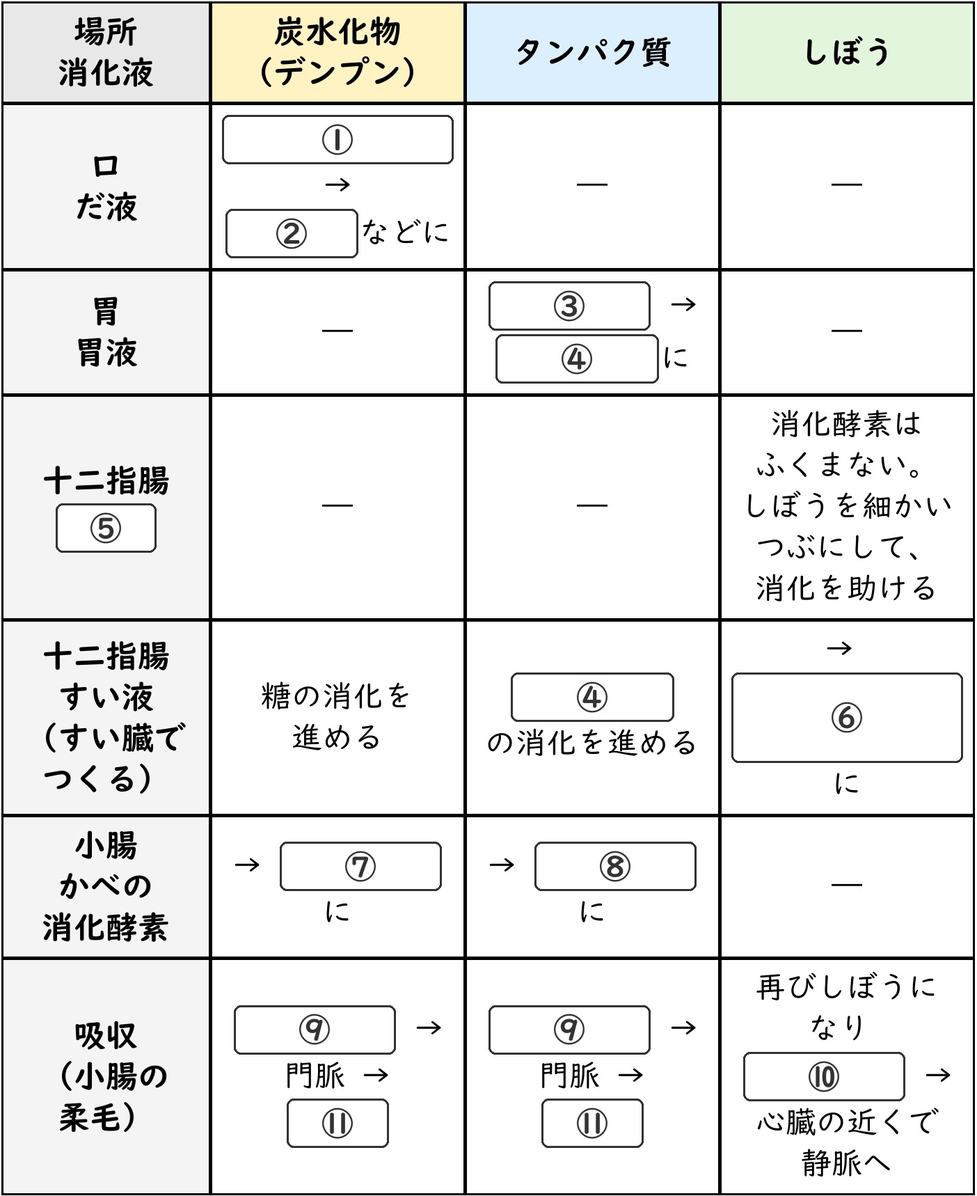
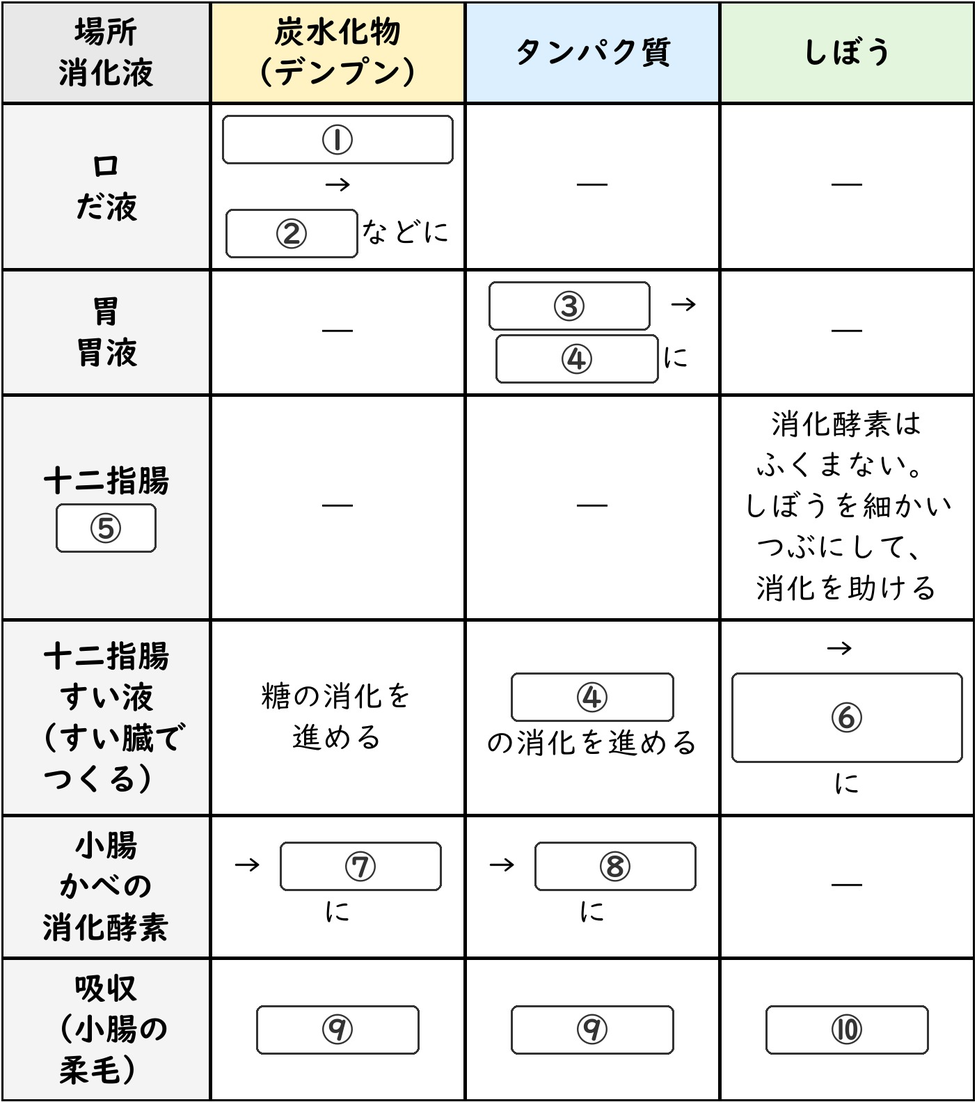
理科 第4回の r4m90 を消し、消化の表を差し替えた／二人対戦の再開で消えた問を飛ばすようにした
■ データ（理科担当の納品 0c6657e3…・89問）
  r4m90（消化の表⑪・肝臓）を data.js から削除。ほかは1文字も変えていない
  （公開ずみとの差: 追加0・変更0・削除1、行の差分も r4m90 の1ブロックだけ）。
  r4_04.jpg を差し替え、IMG_SIZES を実物どおり 1404x1583 に直した。
  吸収の行はテキストどおり ⑨・⑨・⑩（毛細血管・毛細血管・リンパ管）になった。

■ 消えた問の記録が端末に残る件
  stats[r4m90] は消さない（id は履歴の鍵）。残っていても、ホームの数字・一覧・
  CSV 書き出し・前回まちがえた問題・一人の途中再開は壊れないことを
  tools/mikaku/orphan_probe.mjs で確かめた。

■ 見つけて直したこと（index.html）
  二人対戦の途中再開は、保存した questionIds をそのまま使っていたため、
  消えた問が入っていると getQById() が null を返し、その問で画面が落ちた。
  一人の途中再開と同じく、再開のときに消えた id を取りのぞき、添字を数え直す。
  「採点ずみの問題には戻らない」の判定は、取りのぞく前の添字でする。
  直す前に test_battle_resume のシナリオ7で落ちることを確かめ、直したあと28件すべて通過。

diff --git a/index.html b/index.html
@@ -2455,7 +2455,7 @@ function startConnectTimeout(side){
 // images/内の各画像の実サイズ。<img>にwidth/height属性を設定することで、
 // 読み込み前でも正しい縦横比の分だけ表示スペースを確保でき、
 // 画像読み込み完了時のレイアウトのガタつき（＝それに伴うタップのすれ違い）を防ぐ。
-const IMG_SIZES = {"img_01.jpg":[581,620],"img_02.jpg":[627,579],"img_03.jpg":[714,417],"img_04.jpg":[514,483],"img_05.jpg":[644,532],"img_06.jpg":[463,429],"img_07.jpg":[1156,446],"img_08.jpg":[573,586],"img_09.jpg":[506,198],"img_10.jpg":[497,146],"img_11.jpg":[503,499],"img_12.jpg":[518,578],"img_13.jpg":[746,621],"img_14.jpg":[713,567],"img_15.jpg":[658,628],"img_16.png":[642,589],"img_17.png":[535,597],"img_18.png":[510,295],"img_19.png":[1399,307],"img_20.png":[448,714],"img_21.png":[648,595],"img_22.png":[244,234],"img_23.jpg":[346,355],"img_24.jpg":[209,263],"img_25.jpg":[228,244],"kai1_01.jpg":[374,356],"kai1_02.jpg":[348,339],"kai1_03.jpg":[492,339],"kai1_04.jpg":[352,340],"kai1_05.jpg":[357,340],"kai1_06.jpg":[261,340],"kai1_07.jpg":[461,340],"kai1_08.jpg":[444,340],"kai1_09.jpg":[357,340],"kai1_10.jpg":[601,340],"kai1_11.jpg":[635,340],"kai1_12.jpg":[2019,1084],"kai1_13.jpg":[516,490],"kai1_14.jpg":[560,254],"kai1_15.jpg":[595,324],"kai1_17.jpg":[2028,783],"kai1_18.jpg":[2019,1084],"kai1_20.jpg":[2019,1084],"kai1_21.jpg":[2019,1084],"kai1_22.jpg":[595,569],"kai1_23.jpg":[595,569],"kai1_24.jpg":[2019,1084],"kai1_25.jpg":[595,569],"kai1_26.jpg":[595,569],"kai1_27.jpg":[700,508],"kai1_28.jpg":[951,720],"kai1_29.jpg":[2240,1180],"kai1_30.jpg":[1181,1244],"kai2_01.jpg":[697,350],"kai2_02.jpg":[769,524],"kai2_03.jpg":[529,297],"kai2_04.jpg":[529,313],"kai2_05.jpg":[1216,2126],"kai3_01.jpg":[530,460],"kai3_02.jpg":[680,460],"kai3_03.jpg":[700,460],"kai3_04.jpg":[675,330],"kai3_05.jpg":[2408,1775],"kai3_06.jpg":[1988,1222],"kai3_07.jpg":[1189,2001],"kai4_01.jpg":[1189,1839],"kai5_01.jpg":[1189,1027],"kai5_02.jpg":[743,534],"kaki_r1_01.jpg":[761,180],"kaki_r1_02.jpg":[761,206],"kaki_r1_03.jpg":[796,180],"kaki_r1_04.jpg":[761,179],"kaki_r1_05.jpg":[796,206],"kaki_r1_06.jpg":[830,214],"kaki_r1_07.jpg":[890,624],"kaki_r1_08.jpg":[430,380],"kaki_r1_map01.jpg":[1170,1210],"kaki_r1_map02.jpg":[1170,1210],"kaki_r1_map03.jpg":[1170,1210],"kaki_r1_map04.jpg":[1170,1210],"kaki_r1_map05.jpg":[1170,1210],"kaki_r1_map06.jpg":[1170,1210],"kaki_r1_map07.jpg":[1170,1210],"kaki_r1_map08.jpg":[1170,1210],"kaki_r1_map09.jpg":[1170,1210],"kaki_r1_map10.jpg":[1170,1210],"kaki_r1_map11.jpg":[1170,1210],"kaki_r1_map12.jpg":[1170,1210],"kaki_r1_map13.jpg":[1170,1210],"kaki_r1_map14.jpg":[1170,1210],"kaki_r1_map15.jpg":[1170,1210],"kaki_r2_graph01.jpg":[1215,1340],"kaki_r2_graph02.jpg":[1295,850],"kaki_r2_graph03.jpg":[1265,680],"kaki_r2_graph04.jpg":[1225,320],"kaki_r2_graph06.jpg":[1045,560],"kaki_r2_graph07.jpg":[700,870],"kaki_r2_map01.jpg":[1140,1090],"kaki_r2_map05.jpg":[1035,900],"kaki_r2_map07.jpg":[2315,1650],"kaki_r2_map08.jpg":[2315,1650],"kaki_r2_map09.jpg":[2315,1650],"kaki_r2_map10.jpg":[2315,1650],"kaki_r2_map11.jpg":[2315,1650],"kaki_r2_map12.jpg":[2315,1650],"kaki_r2_map13.jpg":[2315,1650],"kaki_r2_map14.jpg":[2315,1650],"kaki_r2_map15.jpg":[2315,1650],"kaki_r2_map16.jpg":[2315,1650],"kaki_r2_map17.jpg":[2315,1650],"kaki_r2_map18.jpg":[2315,1650],"kaki_r2_map19.jpg":[2315,1650],"kaki_r3_graph01.jpg":[1015,580],"kaki_r3_house01.jpg":[505,355],"kaki_r3_map01.jpg":[2415,3414],"kaki_r3_map02.jpg":[2415,3414],"kaki_r3_map03.jpg":[2415,3414],"kaki_r3_map04.jpg":[2415,3414],"kaki_r3_map05.jpg":[2415,3414],"kaki_r3_map06.jpg":[2415,3414],"kaki_r3_map07.jpg":[2415,3414],"kaki_r3_map08.jpg":[2415,3414],"kaki_r3_map09.jpg":[2415,3414],"kaki_r3_map10.jpg":[2415,3414],"kaki_r3_map11.jpg":[2415,3414],"kaki_r3_map12.jpg":[2415,3414],"kaki_r3_map13.jpg":[2415,3414],"kaki_r3_map14.jpg":[2415,3414],"kaki_r3_map15.jpg":[2415,3414],"kaki_r3_map16.jpg":[2415,3414],"kaki_r3_map17.jpg":[2415,3414],"kaki_r3_map18.jpg":[2415,3414],"kaki_r3_map19.jpg":[2415,3414],"kaki_r3_map20.jpg":[2415,3414],"kaki_r3_map21.jpg":[2415,3414],"kaki_r3_map22.jpg":[2415,3414],"kaki_r3_map23.jpg":[2415,3417],"kaki_r3_map24.jpg":[2415,3417],"kaki_r3_map25.jpg":[2415,3417],"kaki_r3_map26.jpg":[2415,3417],"kaki_r3_map27.jpg":[2415,3417],"kaki_r3_map28.jpg":[2415,3417],"kaki_r3_map29.jpg":[2415,3417],"kaki_r3_map30.jpg":[2415,3417],"kaki_r3_map31.jpg":[2415,3417],"kaki_r3_map32.jpg":[2415,3417],"kaki_r3_map33.jpg":[2415,3417],"kaki_r3_map34.jpg":[2415,3417],"kaki_r3_map35.jpg":[2415,3417],"kaki_r3_map36.jpg":[2415,3417],"kaki_r3_map37.jpg":[1265,910],"kaki_r3_shapes.jpg":[2315,480],"kaki_r4_graph01.jpg":[910,300],"kaki_r4_graph02.jpg":[760,200],"kaki_r4_map01.jpg":[1610,980],"kaki_r4_map02.jpg":[1610,1380],"kaki_r4_map03.jpg":[540,570],"kaki_r4_map04.jpg":[1480,1310],"kaki_r4_map05.jpg":[1480,1310],"kaki_r4_map06.jpg":[1480,1310],"kaki_r4_map07.jpg":[1480,1310],"kaki_r4_map08.jpg":[1480,1310],"kaki_r4_map09.jpg":[1480,1310],"kaki_r4_map10.jpg":[1480,1310],"kaki_r4_map11.jpg":[1480,1310],"kaki_r4_map12.jpg":[1480,1310],"kaki_r4_map13.jpg":[1480,1310],"kaki_r4_map14.jpg":[1480,1310],"kaki_r4_map15.jpg":[1480,1310],"kaki_r4_map16.jpg":[1480,1310],"kaki_r4_map17.jpg":[1480,1310],"kaki_r4_map18.jpg":[1480,1310],"kaki_r4_map19.jpg":[1480,1310],"kaki_r4_map20.jpg":[1480,1310],"kaki_r4_map21.jpg":[1480,1310],"kaki_r4_map22.jpg":[1480,1310],"kaki_r4_map23.jpg":[1480,1310],"kaki_r4_map24.jpg":[1480,1310],"kaki_r4_map25.jpg":[1630,1440],"kaki_r4_map26.jpg":[1630,1440],"kaki_r4_map27.jpg":[1630,1440],"kaki_r4_map28.jpg":[1630,1440],"kaki_r4_map29.jpg":[1630,1440],"kaki_r4_map30.jpg":[1630,1440],"kaki_r4_map31.jpg":[1630,1440],"kaki_r4_map32.jpg":[1630,1440],"kaki_r4_map33.jpg":[1630,1440],"kaki_r4_map34.jpg":[1630,1440],"kaki_r4_map35.jpg":[1630,1440],"kaki_r4_map36.jpg":[1630,1440],"kaki_r4_map37.jpg":[1630,1440],"kaki_r4_map38.jpg":[1630,1440],"kaki_r4_map39.jpg":[1630,1440],"kaki_r4_map40.jpg":[1630,1440],"kaki_r4_map41.jpg":[1630,1440],"kaki_r4_shapes01.jpg":[1470,520],"kaki_r4_shapes02.jpg":[1970,870],"kaki_r5_graph02.jpg":[610,665],"kaki_r5_graph05.jpg":[2105,343],"kaki_r5_map01.jpg":[1540,1550],"kaki_r5_map02.jpg":[1540,1550],"kaki_r5_map03.jpg":[1540,1550],"kaki_r5_map04.jpg":[1540,1550],"kaki_r5_map05.jpg":[1540,1550],"kaki_r5_map06.jpg":[1540,1550],"kaki_r5_map07.jpg":[1540,1550],"kaki_r5_map08.jpg":[1540,1550],"kaki_r5_map09.jpg":[1540,1550],"kaki_r5_map10.jpg":[1540,1550],"kaki_r5_map11.jpg":[1540,1550],"kaki_r5_map12.jpg":[1540,1550],"kaki_r5_map13.jpg":[1540,1550],"kaki_r5_map14.jpg":[1540,1550],"kaki_r5_map15.jpg":[1540,1550],"kaki_r5_map16.jpg":[1540,1550],"kaki_r5_map17.jpg":[1540,1550],"kaki_r5_map18.jpg":[1540,1550],"kaki_r5_map19.jpg":[1700,1740],"kaki_r5_map20.jpg":[1700,1740],"kaki_r5_map21.jpg":[1700,1740],"kaki_r5_map22.jpg":[1700,1740],"kaki_r5_map23.jpg":[1700,1740],"kaki_r5_map24.jpg":[1700,1740],"kaki_r5_map25.jpg":[1700,1740],"kaki_r5_map26.jpg":[1700,1740],"kaki_r5_map27.jpg":[1700,1740],"kaki_r5_map28.jpg":[1700,1740],"kaki_r5_map29.jpg":[1700,1740],"kaki_r5_map30.jpg":[1700,1740],"kaki_r5_map31.jpg":[1700,1740],"kaki_r5_map32.jpg":[540,600],"kaki_r5_shapes02.jpg":[800,635],"kaki_r5_shapes03.jpg":[460,480],"kaki_r5_table01.jpg":[1370,390],"kaki_r5_table02.jpg":[1170,580],"kaki_r6_graph01.jpg":[850,1005],"kaki_r6_map01.jpg":[1500,1320],"kaki_r6_map02.jpg":[1500,1320],"kaki_r6_map03.jpg":[1500,1320],"kaki_r6_map04.jpg":[1500,1320],"kaki_r6_map05.jpg":[1500,1320],"kaki_r6_map06.jpg":[1500,1320],"kaki_r6_map07.jpg":[1500,1320],"kaki_r6_map08.jpg":[1500,1320],"kaki_r6_map09.jpg":[1500,1320],"kaki_r6_map10.jpg":[1500,1320],"kaki_r6_map11.jpg":[1500,1320],"kaki_r6_map12.jpg":[1500,1320],"kaki_r6_map13.jpg":[1500,1320],"kaki_r6_map14.jpg":[1500,1320],"kaki_r6_map15.jpg":[1500,1320],"kaki_r6_map16.jpg":[1500,1320],"kaki_r6_map17.jpg":[1500,1320],"kaki_r6_map18.jpg":[1500,1320],"kaki_r6_map19.jpg":[1500,1320],"kaki_r6_map20.jpg":[1500,1320],"kaki_r6_map21.jpg":[1500,1320],"kaki_r6_map22.jpg":[1500,1320],"kaki_r6_map23.jpg":[1500,1320],"kaki_r6_map24.jpg":[1500,1320],"kaki_r6_map25.jpg":[1500,1320],"kaki_r6_map26.jpg":[1500,1320],"kaki_r6_map27.jpg":[1500,1320],"kaki_r6_map28.jpg":[1420,1480],"kaki_r6_map29.jpg":[1420,1480],"kaki_r6_map30.jpg":[1420,1480],"kaki_r6_map31.jpg":[1420,1480],"kaki_r6_map32.jpg":[1420,1480],"kaki_r6_map33.jpg":[1420,1480],"kaki_r6_map34.jpg":[1420,1480],"kaki_r6_map35.jpg":[1420,1480],"kaki_r6_map36.jpg":[1420,1480],"kaki_r6_map37.jpg":[1420,1480],"kaki_r6_map38.jpg":[1420,1480],"kaki_r6_map39.jpg":[1420,1480],"kaki_r6_map40.jpg":[1420,1480],"kaki_r6_map41.jpg":[1420,1480],"kaki_r6_map42.jpg":[1420,1480],"kaki_r6_map43.jpg":[1420,1480],"kaki_r6_map44.jpg":[1420,1480],"kaki_r6_map45.jpg":[1420,1480],"kaki_r6_map46.jpg":[1420,1480],"kaki_r6_map47.jpg":[1420,1480],"kaki_r6_map48.jpg":[750,845],"kaki_r6_map49.jpg":[600,700],"kaki_r6_table01.jpg":[2010,445],"kaki_r7_graph02.jpg":[720,340],"kaki_r7_map01.jpg":[1840,1620],"kaki_r7_map02.jpg":[1840,1620],"kaki_r7_map03.jpg":[1840,1620],"kaki_r7_map04.jpg":[1840,1620],"kaki_r7_map05.jpg":[1840,1620],"kaki_r7_map06.jpg":[1840,1620],"kaki_r7_map07.jpg":[1840,1620],"kaki_r7_map08.jpg":[1840,1620],"kaki_r7_map09.jpg":[1840,1620],"kaki_r7_map10.jpg":[1840,1620],"kaki_r7_map11.jpg":[1840,1620],"kaki_r7_map12.jpg":[1840,1620],"kaki_r7_map13.jpg":[1840,1620],"kaki_r7_map14.jpg":[1840,1620],"kaki_r7_map15.jpg":[1840,1620],"kaki_r7_map16.jpg":[1840,1620],"kaki_r7_map17.jpg":[1840,1620],"kaki_r7_map18.jpg":[1500,1620],"kaki_r7_map19.jpg":[1500,1620],"kaki_r7_map20.jpg":[1500,1620],"kaki_r7_map21.jpg":[1500,1620],"kaki_r7_map22.jpg":[1500,1620],"kaki_r7_map23.jpg":[1500,1620],"kaki_r7_map24.jpg":[1500,1620],"kaki_r7_map25.jpg":[1500,1620],"kaki_r7_map26.jpg":[1500,1620],"kaki_r7_map27.jpg":[1500,1620],"kaki_r7_map28.jpg":[1500,1620],"kaki_r7_map29.jpg":[1500,1620],"kaki_r7_map30.jpg":[1500,1620],"kaki_r7_map31.jpg":[1500,1620],"kaki_r7_map32.jpg":[1500,1620],"kaki_r7_map33.jpg":[1500,1620],"kaki_r7_map34.jpg":[1500,1620],"kaki_r7_map35.jpg":[1500,1620],"kaki_r7_map36.jpg":[680,550],"kaki_r7_table01.jpg":[1100,420],"kaki_r7_table02.jpg":[1730,890],"kaki_r8_map01.jpg":[1220,1720],"kaki_r8_map02.jpg":[1220,1720],"kaki_r8_map03.jpg":[1220,1720],"kaki_r8_map04.jpg":[1220,1720],"kaki_r8_map05.jpg":[1220,1720],"kaki_r8_map06.jpg":[1220,1720],"kaki_r8_map07.jpg":[1220,1720],"kaki_r8_map08.jpg":[1220,1720],"kaki_r8_map09.jpg":[1220,1720],"kaki_r8_map10.jpg":[1220,1720],"kaki_r8_map11.jpg":[1220,1720],"kaki_r8_map12.jpg":[1220,1720],"kaki_r8_map13.jpg":[1220,1720],"kaki_r8_map14.jpg":[1220,1720],"kaki_r8_map15.jpg":[1220,1720],"kaki_r8_map16.jpg":[1220,1720],"kaki_r8_map17.jpg":[1220,1720],"kaki_r8_map18.jpg":[1220,1720],"kaki_r8_map19.jpg":[1220,1720],"kaki_r8_map20.jpg":[1220,1720],"kaki_r8_map21.jpg":[1220,1720],"kaki_r8_map22.jpg":[1220,1720],"kaki_r8_map23.jpg":[1220,1720],"kaki_r8_map24.jpg":[1220,1720],"kaki_r8_map25.jpg":[1220,1720],"kaki_r8_map26.jpg":[1220,1720],"kaki_r8_map27.jpg":[1220,1720],"kaki_r8_map28.jpg":[1220,1720],"kaki_r8_map29.jpg":[1220,1720],"kaki_r8_map30.jpg":[1220,1720],"kaki_r8_map31.jpg":[1220,1720],"kaki_r8_map32.jpg":[1220,1720],"kaki_r8_map33.jpg":[1220,1720],"kaki_r8_map34.jpg":[1220,1720],"kaki_r8_map35.jpg":[1870,1560],"kaki_r8_map36.jpg":[1870,1560],"kaki_r8_map37.jpg":[1870,1560],"kaki_r8_map38.jpg":[1870,1560],"kaki_r8_map39.jpg":[1870,1560],"kaki_r8_map40.jpg":[1870,1560],"kaki_r8_map41.jpg":[1870,1560],"kaki_r8_map42.jpg":[1870,1560],"kaki_r8_map43.jpg":[1870,1560],"kaki_r8_map44.jpg":[1870,1560],"kaki_r8_map45.jpg":[1870,1560],"kaki_r8_map46.jpg":[1870,1560],"kaki_r8_map47.jpg":[1870,1560],"kaki_r8_map48.jpg":[1870,1560],"kaki_r8_map49.jpg":[1870,1560],"kaki_r8_map50.jpg":[1870,1560],"kaki_r8_map51.jpg":[1870,1560],"kaki_r8_map52.jpg":[1870,1560],"kaki_r8_map53.jpg":[1870,1560],"kaki_r8_map54.jpg":[1870,1560],"kaki_r8_map55.jpg":[1870,1560],"kaki_r8_map56.jpg":[1870,1560],"kaki_r8_map57.jpg":[1870,1560],"kaki_r8_map58.jpg":[640,630],"r1_01.jpg":[2188,900],"r1_02.jpg":[1130,1070],"r1_03.jpg":[1660,400],"r1_04.jpg":[476,377],"r1_05.jpg":[1299,625],"r1_06.jpg":[950,360],"r2_01.jpg":[1400,673],"r2_02.jpg":[1400,365],"r2_03.jpg":[1400,346],"r2_04.jpg":[1400,997],"r2_05.jpg":[1400,692],"r2_06.jpg":[1392,600],"r2_07.jpg":[1392,623],"r2_08.jpg":[1392,701],"r2_09.jpg":[1419,823],"r2_10.jpg":[1419,823],"r2_11.jpg":[1419,823],"r2_12.jpg":[1419,956],"r2_13.jpg":[1419,956],"r2_14.jpg":[1419,956],"r2_15.jpg":[1400,946],"r2_16.jpg":[1400,946],"r2_17.jpg":[1400,946],"r2_18.jpg":[1400,883],"r2_19.jpg":[1400,883],"r2_20.jpg":[1427,1895],"r2_21.jpg":[1427,1895],"r2_22.jpg":[1427,1895],"r2_23.jpg":[1427,1895],"r2_24.jpg":[1427,1895],"r2_25.jpg":[1427,1895],"r2_26.jpg":[1410,1983],"r2_27.jpg":[1410,1983],"r2_28.jpg":[1410,1983],"r2_29.jpg":[1410,1983],"r2_30.jpg":[1419,946],"r2_31.jpg":[1419,946],"r2_32.jpg":[1419,946],"r2_33.jpg":[1419,946],"r2_34.jpg":[1419,538],"r2_35.jpg":[1419,538],"r2_36.jpg":[1419,538],"r2_37.jpg":[1419,538],"r2_38.jpg":[1419,546],"r2_39.jpg":[1401,913],"r2_40.jpg":[1401,1937],"r4_01.jpg":[880,1168],"r4_02.jpg":[1175,434],"r4_03.jpg":[759,1084],"r4_04.jpg":[1404,1718]};
+const IMG_SIZES = {"img_01.jpg":[581,620],"img_02.jpg":[627,579],"img_03.jpg":[714,417],"img_04.jpg":[514,483],"img_05.jpg":[644,532],"img_06.jpg":[463,429],"img_07.jpg":[1156,446],"img_08.jpg":[573,586],"img_09.jpg":[506,198],"img_10.jpg":[497,146],"img_11.jpg":[503,499],"img_12.jpg":[518,578],"img_13.jpg":[746,621],"img_14.jpg":[713,567],"img_15.jpg":[658,628],"img_16.png":[642,589],"img_17.png":[535,597],"img_18.png":[510,295],"img_19.png":[1399,307],"img_20.png":[448,714],"img_21.png":[648,595],"img_22.png":[244,234],"img_23.jpg":[346,355],"img_24.jpg":[209,263],"img_25.jpg":[228,244],"kai1_01.jpg":[374,356],"kai1_02.jpg":[348,339],"kai1_03.jpg":[492,339],"kai1_04.jpg":[352,340],"kai1_05.jpg":[357,340],"kai1_06.jpg":[261,340],"kai1_07.jpg":[461,340],"kai1_08.jpg":[444,340],"kai1_09.jpg":[357,340],"kai1_10.jpg":[601,340],"kai1_11.jpg":[635,340],"kai1_12.jpg":[2019,1084],"kai1_13.jpg":[516,490],"kai1_14.jpg":[560,254],"kai1_15.jpg":[595,324],"kai1_17.jpg":[2028,783],"kai1_18.jpg":[2019,1084],"kai1_20.jpg":[2019,1084],"kai1_21.jpg":[2019,1084],"kai1_22.jpg":[595,569],"kai1_23.jpg":[595,569],"kai1_24.jpg":[2019,1084],"kai1_25.jpg":[595,569],"kai1_26.jpg":[595,569],"kai1_27.jpg":[700,508],"kai1_28.jpg":[951,720],"kai1_29.jpg":[2240,1180],"kai1_30.jpg":[1181,1244],"kai2_01.jpg":[697,350],"kai2_02.jpg":[769,524],"kai2_03.jpg":[529,297],"kai2_04.jpg":[529,313],"kai2_05.jpg":[1216,2126],"kai3_01.jpg":[530,460],"kai3_02.jpg":[680,460],"kai3_03.jpg":[700,460],"kai3_04.jpg":[675,330],"kai3_05.jpg":[2408,1775],"kai3_06.jpg":[1988,1222],"kai3_07.jpg":[1189,2001],"kai4_01.jpg":[1189,1839],"kai5_01.jpg":[1189,1027],"kai5_02.jpg":[743,534],"kaki_r1_01.jpg":[761,180],"kaki_r1_02.jpg":[761,206],"kaki_r1_03.jpg":[796,180],"kaki_r1_04.jpg":[761,179],"kaki_r1_05.jpg":[796,206],"kaki_r1_06.jpg":[830,214],"kaki_r1_07.jpg":[890,624],"kaki_r1_08.jpg":[430,380],"kaki_r1_map01.jpg":[1170,1210],"kaki_r1_map02.jpg":[1170,1210],"kaki_r1_map03.jpg":[1170,1210],"kaki_r1_map04.jpg":[1170,1210],"kaki_r1_map05.jpg":[1170,1210],"kaki_r1_map06.jpg":[1170,1210],"kaki_r1_map07.jpg":[1170,1210],"kaki_r1_map08.jpg":[1170,1210],"kaki_r1_map09.jpg":[1170,1210],"kaki_r1_map10.jpg":[1170,1210],"kaki_r1_map11.jpg":[1170,1210],"kaki_r1_map12.jpg":[1170,1210],"kaki_r1_map13.jpg":[1170,1210],"kaki_r1_map14.jpg":[1170,1210],"kaki_r1_map15.jpg":[1170,1210],"kaki_r2_graph01.jpg":[1215,1340],"kaki_r2_graph02.jpg":[1295,850],"kaki_r2_graph03.jpg":[1265,680],"kaki_r2_graph04.jpg":[1225,320],"kaki_r2_graph06.jpg":[1045,560],"kaki_r2_graph07.jpg":[700,870],"kaki_r2_map01.jpg":[1140,1090],"kaki_r2_map05.jpg":[1035,900],"kaki_r2_map07.jpg":[2315,1650],"kaki_r2_map08.jpg":[2315,1650],"kaki_r2_map09.jpg":[2315,1650],"kaki_r2_map10.jpg":[2315,1650],"kaki_r2_map11.jpg":[2315,1650],"kaki_r2_map12.jpg":[2315,1650],"kaki_r2_map13.jpg":[2315,1650],"kaki_r2_map14.jpg":[2315,1650],"kaki_r2_map15.jpg":[2315,1650],"kaki_r2_map16.jpg":[2315,1650],"kaki_r2_map17.jpg":[2315,1650],"kaki_r2_map18.jpg":[2315,1650],"kaki_r2_map19.jpg":[2315,1650],"kaki_r3_graph01.jpg":[1015,580],"kaki_r3_house01.jpg":[505,355],"kaki_r3_map01.jpg":[2415,3414],"kaki_r3_map02.jpg":[2415,3414],"kaki_r3_map03.jpg":[2415,3414],"kaki_r3_map04.jpg":[2415,3414],"kaki_r3_map05.jpg":[2415,3414],"kaki_r3_map06.jpg":[2415,3414],"kaki_r3_map07.jpg":[2415,3414],"kaki_r3_map08.jpg":[2415,3414],"kaki_r3_map09.jpg":[2415,3414],"kaki_r3_map10.jpg":[2415,3414],"kaki_r3_map11.jpg":[2415,3414],"kaki_r3_map12.jpg":[2415,3414],"kaki_r3_map13.jpg":[2415,3414],"kaki_r3_map14.jpg":[2415,3414],"kaki_r3_map15.jpg":[2415,3414],"kaki_r3_map16.jpg":[2415,3414],"kaki_r3_map17.jpg":[2415,3414],"kaki_r3_map18.jpg":[2415,3414],"kaki_r3_map19.jpg":[2415,3414],"kaki_r3_map20.jpg":[2415,3414],"kaki_r3_map21.jpg":[2415,3414],"kaki_r3_map22.jpg":[2415,3414],"kaki_r3_map23.jpg":[2415,3417],"kaki_r3_map24.jpg":[2415,3417],"kaki_r3_map25.jpg":[2415,3417],"kaki_r3_map26.jpg":[2415,3417],"kaki_r3_map27.jpg":[2415,3417],"kaki_r3_map28.jpg":[2415,3417],"kaki_r3_map29.jpg":[2415,3417],"kaki_r3_map30.jpg":[2415,3417],"kaki_r3_map31.jpg":[2415,3417],"kaki_r3_map32.jpg":[2415,3417],"kaki_r3_map33.jpg":[2415,3417],"kaki_r3_map34.jpg":[2415,3417],"kaki_r3_map35.jpg":[2415,3417],"kaki_r3_map36.jpg":[2415,3417],"kaki_r3_map37.jpg":[1265,910],"kaki_r3_shapes.jpg":[2315,480],"kaki_r4_graph01.jpg":[910,300],"kaki_r4_graph02.jpg":[760,200],"kaki_r4_map01.jpg":[1610,980],"kaki_r4_map02.jpg":[1610,1380],"kaki_r4_map03.jpg":[540,570],"kaki_r4_map04.jpg":[1480,1310],"kaki_r4_map05.jpg":[1480,1310],"kaki_r4_map06.jpg":[1480,1310],"kaki_r4_map07.jpg":[1480,1310],"kaki_r4_map08.jpg":[1480,1310],"kaki_r4_map09.jpg":[1480,1310],"kaki_r4_map10.jpg":[1480,1310],"kaki_r4_map11.jpg":[1480,1310],"kaki_r4_map12.jpg":[1480,1310],"kaki_r4_map13.jpg":[1480,1310],"kaki_r4_map14.jpg":[1480,1310],"kaki_r4_map15.jpg":[1480,1310],"kaki_r4_map16.jpg":[1480,1310],"kaki_r4_map17.jpg":[1480,1310],"kaki_r4_map18.jpg":[1480,1310],"kaki_r4_map19.jpg":[1480,1310],"kaki_r4_map20.jpg":[1480,1310],"kaki_r4_map21.jpg":[1480,1310],"kaki_r4_map22.jpg":[1480,1310],"kaki_r4_map23.jpg":[1480,1310],"kaki_r4_map24.jpg":[1480,1310],"kaki_r4_map25.jpg":[1630,1440],"kaki_r4_map26.jpg":[1630,1440],"kaki_r4_map27.jpg":[1630,1440],"kaki_r4_map28.jpg":[1630,1440],"kaki_r4_map29.jpg":[1630,1440],"kaki_r4_map30.jpg":[1630,1440],"kaki_r4_map31.jpg":[1630,1440],"kaki_r4_map32.jpg":[1630,1440],"kaki_r4_map33.jpg":[1630,1440],"kaki_r4_map34.jpg":[1630,1440],"kaki_r4_map35.jpg":[1630,1440],"kaki_r4_map36.jpg":[1630,1440],"kaki_r4_map37.jpg":[1630,1440],"kaki_r4_map38.jpg":[1630,1440],"kaki_r4_map39.jpg":[1630,1440],"kaki_r4_map40.jpg":[1630,1440],"kaki_r4_map41.jpg":[1630,1440],"kaki_r4_shapes01.jpg":[1470,520],"kaki_r4_shapes02.jpg":[1970,870],"kaki_r5_graph02.jpg":[610,665],"kaki_r5_graph05.jpg":[2105,343],"kaki_r5_map01.jpg":[1540,1550],"kaki_r5_map02.jpg":[1540,1550],"kaki_r5_map03.jpg":[1540,1550],"kaki_r5_map04.jpg":[1540,1550],"kaki_r5_map05.jpg":[1540,1550],"kaki_r5_map06.jpg":[1540,1550],"kaki_r5_map07.jpg":[1540,1550],"kaki_r5_map08.jpg":[1540,1550],"kaki_r5_map09.jpg":[1540,1550],"kaki_r5_map10.jpg":[1540,1550],"kaki_r5_map11.jpg":[1540,1550],"kaki_r5_map12.jpg":[1540,1550],"kaki_r5_map13.jpg":[1540,1550],"kaki_r5_map14.jpg":[1540,1550],"kaki_r5_map15.jpg":[1540,1550],"kaki_r5_map16.jpg":[1540,1550],"kaki_r5_map17.jpg":[1540,1550],"kaki_r5_map18.jpg":[1540,1550],"kaki_r5_map19.jpg":[1700,1740],"kaki_r5_map20.jpg":[1700,1740],"kaki_r5_map21.jpg":[1700,1740],"kaki_r5_map22.jpg":[1700,1740],"kaki_r5_map23.jpg":[1700,1740],"kaki_r5_map24.jpg":[1700,1740],"kaki_r5_map25.jpg":[1700,1740],"kaki_r5_map26.jpg":[1700,1740],"kaki_r5_map27.jpg":[1700,1740],"kaki_r5_map28.jpg":[1700,1740],"kaki_r5_map29.jpg":[1700,1740],"kaki_r5_map30.jpg":[1700,1740],"kaki_r5_map31.jpg":[1700,1740],"kaki_r5_map32.jpg":[540,600],"kaki_r5_shapes02.jpg":[800,635],"kaki_r5_shapes03.jpg":[460,480],"kaki_r5_table01.jpg":[1370,390],"kaki_r5_table02.jpg":[1170,580],"kaki_r6_graph01.jpg":[850,1005],"kaki_r6_map01.jpg":[1500,1320],"kaki_r6_map02.jpg":[1500,1320],"kaki_r6_map03.jpg":[1500,1320],"kaki_r6_map04.jpg":[1500,1320],"kaki_r6_map05.jpg":[1500,1320],"kaki_r6_map06.jpg":[1500,1320],"kaki_r6_map07.jpg":[1500,1320],"kaki_r6_map08.jpg":[1500,1320],"kaki_r6_map09.jpg":[1500,1320],"kaki_r6_map10.jpg":[1500,1320],"kaki_r6_map11.jpg":[1500,1320],"kaki_r6_map12.jpg":[1500,1320],"kaki_r6_map13.jpg":[1500,1320],"kaki_r6_map14.jpg":[1500,1320],"kaki_r6_map15.jpg":[1500,1320],"kaki_r6_map16.jpg":[1500,1320],"kaki_r6_map17.jpg":[1500,1320],"kaki_r6_map18.jpg":[1500,1320],"kaki_r6_map19.jpg":[1500,1320],"kaki_r6_map20.jpg":[1500,1320],"kaki_r6_map21.jpg":[1500,1320],"kaki_r6_map22.jpg":[1500,1320],"kaki_r6_map23.jpg":[1500,1320],"kaki_r6_map24.jpg":[1500,1320],"kaki_r6_map25.jpg":[1500,1320],"kaki_r6_map26.jpg":[1500,1320],"kaki_r6_map27.jpg":[1500,1320],"kaki_r6_map28.jpg":[1420,1480],"kaki_r6_map29.jpg":[1420,1480],"kaki_r6_map30.jpg":[1420,1480],"kaki_r6_map31.jpg":[1420,1480],"kaki_r6_map32.jpg":[1420,1480],"kaki_r6_map33.jpg":[1420,1480],"kaki_r6_map34.jpg":[1420,1480],"kaki_r6_map35.jpg":[1420,1480],"kaki_r6_map36.jpg":[1420,1480],"kaki_r6_map37.jpg":[1420,1480],"kaki_r6_map38.jpg":[1420,1480],"kaki_r6_map39.jpg":[1420,1480],"kaki_r6_map40.jpg":[1420,1480],"kaki_r6_map41.jpg":[1420,1480],"kaki_r6_map42.jpg":[1420,1480],"kaki_r6_map43.jpg":[1420,1480],"kaki_r6_map44.jpg":[1420,1480],"kaki_r6_map45.jpg":[1420,1480],"kaki_r6_map46.jpg":[1420,1480],"kaki_r6_map47.jpg":[1420,1480],"kaki_r6_map48.jpg":[750,845],"kaki_r6_map49.jpg":[600,700],"kaki_r6_table01.jpg":[2010,445],"kaki_r7_graph02.jpg":[720,340],"kaki_r7_map01.jpg":[1840,1620],"kaki_r7_map02.jpg":[1840,1620],"kaki_r7_map03.jpg":[1840,1620],"kaki_r7_map04.jpg":[1840,1620],"kaki_r7_map05.jpg":[1840,1620],"kaki_r7_map06.jpg":[1840,1620],"kaki_r7_map07.jpg":[1840,1620],"kaki_r7_map08.jpg":[1840,1620],"kaki_r7_map09.jpg":[1840,1620],"kaki_r7_map10.jpg":[1840,1620],"kaki_r7_map11.jpg":[1840,1620],"kaki_r7_map12.jpg":[1840,1620],"kaki_r7_map13.jpg":[1840,1620],"kaki_r7_map14.jpg":[1840,1620],"kaki_r7_map15.jpg":[1840,1620],"kaki_r7_map16.jpg":[1840,1620],"kaki_r7_map17.jpg":[1840,1620],"kaki_r7_map18.jpg":[1500,1620],"kaki_r7_map19.jpg":[1500,1620],"kaki_r7_map20.jpg":[1500,1620],"kaki_r7_map21.jpg":[1500,1620],"kaki_r7_map22.jpg":[1500,1620],"kaki_r7_map23.jpg":[1500,1620],"kaki_r7_map24.jpg":[1500,1620],"kaki_r7_map25.jpg":[1500,1620],"kaki_r7_map26.jpg":[1500,1620],"kaki_r7_map27.jpg":[1500,1620],"kaki_r7_map28.jpg":[1500,1620],"kaki_r7_map29.jpg":[1500,1620],"kaki_r7_map30.jpg":[1500,1620],"kaki_r7_map31.jpg":[1500,1620],"kaki_r7_map32.jpg":[1500,1620],"kaki_r7_map33.jpg":[1500,1620],"kaki_r7_map34.jpg":[1500,1620],"kaki_r7_map35.jpg":[1500,1620],"kaki_r7_map36.jpg":[680,550],"kaki_r7_table01.jpg":[1100,420],"kaki_r7_table02.jpg":[1730,890],"kaki_r8_map01.jpg":[1220,1720],"kaki_r8_map02.jpg":[1220,1720],"kaki_r8_map03.jpg":[1220,1720],"kaki_r8_map04.jpg":[1220,1720],"kaki_r8_map05.jpg":[1220,1720],"kaki_r8_map06.jpg":[1220,1720],"kaki_r8_map07.jpg":[1220,1720],"kaki_r8_map08.jpg":[1220,1720],"kaki_r8_map09.jpg":[1220,1720],"kaki_r8_map10.jpg":[1220,1720],"kaki_r8_map11.jpg":[1220,1720],"kaki_r8_map12.jpg":[1220,1720],"kaki_r8_map13.jpg":[1220,1720],"kaki_r8_map14.jpg":[1220,1720],"kaki_r8_map15.jpg":[1220,1720],"kaki_r8_map16.jpg":[1220,1720],"kaki_r8_map17.jpg":[1220,1720],"kaki_r8_map18.jpg":[1220,1720],"kaki_r8_map19.jpg":[1220,1720],"kaki_r8_map20.jpg":[1220,1720],"kaki_r8_map21.jpg":[1220,1720],"kaki_r8_map22.jpg":[1220,1720],"kaki_r8_map23.jpg":[1220,1720],"kaki_r8_map24.jpg":[1220,1720],"kaki_r8_map25.jpg":[1220,1720],"kaki_r8_map26.jpg":[1220,1720],"kaki_r8_map27.jpg":[1220,1720],"kaki_r8_map28.jpg":[1220,1720],"kaki_r8_map29.jpg":[1220,1720],"kaki_r8_map30.jpg":[1220,1720],"kaki_r8_map31.jpg":[1220,1720],"kaki_r8_map32.jpg":[1220,1720],"kaki_r8_map33.jpg":[1220,1720],"kaki_r8_map34.jpg":[1220,1720],"kaki_r8_map35.jpg":[1870,1560],"kaki_r8_map36.jpg":[1870,1560],"kaki_r8_map37.jpg":[1870,1560],"kaki_r8_map38.jpg":[1870,1560],"kaki_r8_map39.jpg":[1870,1560],"kaki_r8_map40.jpg":[1870,1560],"kaki_r8_map41.jpg":[1870,1560],"kaki_r8_map42.jpg":[1870,1560],"kaki_r8_map43.jpg":[1870,1560],"kaki_r8_map44.jpg":[1870,1560],"kaki_r8_map45.jpg":[1870,1560],"kaki_r8_map46.jpg":[1870,1560],"kaki_r8_map47.jpg":[1870,1560],"kaki_r8_map48.jpg":[1870,1560],"kaki_r8_map49.jpg":[1870,1560],"kaki_r8_map50.jpg":[1870,1560],"kaki_r8_map51.jpg":[1870,1560],"kaki_r8_map52.jpg":[1870,1560],"kaki_r8_map53.jpg":[1870,1560],"kaki_r8_map54.jpg":[1870,1560],"kaki_r8_map55.jpg":[1870,1560],"kaki_r8_map56.jpg":[1870,1560],"kaki_r8_map57.jpg":[1870,1560],"kaki_r8_map58.jpg":[640,630],"r1_01.jpg":[2188,900],"r1_02.jpg":[1130,1070],"r1_03.jpg":[1660,400],"r1_04.jpg":[476,377],"r1_05.jpg":[1299,625],"r1_06.jpg":[950,360],"r2_01.jpg":[1400,673],"r2_02.jpg":[1400,365],"r2_03.jpg":[1400,346],"r2_04.jpg":[1400,997],"r2_05.jpg":[1400,692],"r2_06.jpg":[1392,600],"r2_07.jpg":[1392,623],"r2_08.jpg":[1392,701],"r2_09.jpg":[1419,823],"r2_10.jpg":[1419,823],"r2_11.jpg":[1419,823],"r2_12.jpg":[1419,956],"r2_13.jpg":[1419,956],"r2_14.jpg":[1419,956],"r2_15.jpg":[1400,946],"r2_16.jpg":[1400,946],"r2_17.jpg":[1400,946],"r2_18.jpg":[1400,883],"r2_19.jpg":[1400,883],"r2_20.jpg":[1427,1895],"r2_21.jpg":[1427,1895],"r2_22.jpg":[1427,1895],"r2_23.jpg":[1427,1895],"r2_24.jpg":[1427,1895],"r2_25.jpg":[1427,1895],"r2_26.jpg":[1410,1983],"r2_27.jpg":[1410,1983],"r2_28.jpg":[1410,1983],"r2_29.jpg":[1410,1983],"r2_30.jpg":[1419,946],"r2_31.jpg":[1419,946],"r2_32.jpg":[1419,946],"r2_33.jpg":[1419,946],"r2_34.jpg":[1419,538],"r2_35.jpg":[1419,538],"r2_36.jpg":[1419,538],"r2_37.jpg":[1419,538],"r2_38.jpg":[1419,546],"r2_39.jpg":[1401,913],"r2_40.jpg":[1401,1937],"r4_01.jpg":[880,1168],"r4_02.jpg":[1175,434],"r4_03.jpg":[759,1084],"r4_04.jpg":[1404,1583]};
 
 // 画像を差し替える際、幅・高さの属性も一緒に設定する（IMG_SIZESに無い画像はそのまま）
 // ---- 年表の空らんを赤丸で示す位置（画像の幅・高さに対する割合）----
@@ -6277,6 +6277,28 @@ els["resume-battle-btn"].addEventListener("click", async ()=>{
   if(!Array.isArray(session.questionIds) || session.currentIndex >= session.questionIds.length){
     // stale/invalid session (e.g. the previous round actually finished) --
     // don't resume into a broken state, just drop it
+    clearBattleSession();
+    refreshResumeBattleButton();
+    return;
+  }
+  // ★データから消えた問題を取りのぞく（2026-09-22。一人の途中再開 restoreSoloSession と同じ考え方）。
+  //   理科 第4回の r4m90 を消したとき、消す前に始めた対戦の保存には r4m90 が残っていて、
+  //   getQById() が null を返し、その問で画面が落ちた（test_battle_resume シナリオ7）。
+  //   添字（currentIndex・scoredIdx・recordedIdx）も、取りのぞいたぶん数え直す。
+  //   ★採点まで済んだ問題には戻らない、の判定は**取りのぞく前の添字**でする（下の2行の順番に意味がある）
+  if(session.scoredIdx === session.currentIndex) session.currentIndex += 1;
+  session.scoredIdx = -1;
+  {
+    const known = new Set(QA_DATA.map(d => d.id));
+    const keptBefore = i => session.questionIds.slice(0, i).filter(id => known.has(id)).length;
+    const rIdx = typeof session.recordedIdx === "number" ? session.recordedIdx : null;
+    if(rIdx !== null && rIdx >= 0){
+      session.recordedIdx = known.has(session.questionIds[rIdx]) ? keptBefore(rIdx) : keptBefore(rIdx) - 1;
+    }
+    session.currentIndex = keptBefore(session.currentIndex);
+    session.questionIds = session.questionIds.filter(id => known.has(id));
+  }
+  if(session.currentIndex >= session.questionIds.length){
     clearBattleSession();
     refreshResumeBattleButton();
     return;

diff --git a/data.js b/data.js
@@ -7732,19 +7732,6 @@ const QA_DATA = [
   "level": "基礎"
  },
  {
-  "id": "r4m90",
-  "subj": "理科",
-  "u": "第4回.ヒトと動物の消化・吸収",
-  "q": "【消化の表⑪】表の⑪にあてはまる語を答えなさい。",
-  "note": "理科40P・42P・45P／演習問題集、28P（消化の表）",
-  "a": "肝臓",
-  "img": "r4_04.jpg",
-  "kai": 4,
-  "kind": "memo",
-  "priority": "高",
-  "level": "基礎"
- },
- {
   "id": "kaki1_01",
   "subj": "社会",
   "u": "夏期講習 復習編1.日本の食料生産",

diff --git a/作業メモ.md b/作業メモ.md
@@ -6,6 +6,27 @@
 
 - （いまは誰も作業していません）
 
+### ★2026-09-22 理科 第4回：r4m90 を消し、消化の表を差し替えた（コミットずみ・**push は承認待ち**）
+```
+sha256 json 0c6657e3…（55282B・89問・CRLF）／ 画像 r4_04.jpg 101c6cf6…（1404x1583）どちらも一致
+公開ずみとの差（id）: 追加0・変更0・★削除1（r4m90）・総数 1675 → 1674 ／ data.js 行: 追加0・削除13＝r4m90 の1ブロックだけ
+照合 verify_rika_pointwise 4: 差分0 ／ IMG_SIZES r4_04 1404x1718 → ★1404x1583（sync_img_sizes が「ちがう」を検出して直した）
+検査 verify_data / smoke 22 / list_meta_filter 21 / migration 22 / battle_start 17 / ★battle_resume 28（シナリオ7を追加）
+```
+- 実機: 表が出て①〜⑩が読める／★吸収の行は ⑨・⑨・⑩（毛細血管・毛細血管・リンパ管）。門脈・肝臓・静脈・⑪は無い／空らんに答えなし
+
+#### ★消えた問の記録（stats[r4m90]）が残っても壊れないか（道具 `tools/mikaku/orphan_probe.mjs`）
+ホームの数字・苦手の数・問題一覧・CSV 書き出し・「前回まちがえた問題」・一人の途中再開 → **すべて壊れない**。記録そのものは消えずに残る（C-5）。
+CSV には消えた問の行は出ない（書き出しは data.js の問だけ）
+
+#### 🚨 1件見つけて直した（`index.html`）：**二人対戦の途中再開に、消えた問が入っていると画面が落ちた**
+- 一人の途中再開は消えた問を取りのぞくが、**二人のほうは保存した questionIds をそのまま使い**、`getQById()` が null で `d.u` で落ちた
+- ★直す前に `test_battle_resume` シナリオ7（次に出す位置に消えた id を混ぜて再開）で**落ちることを確かめてから**直した
+  （`Cannot read properties of null (reading 'u')`）
+- 直し: 再開のときに消えた id を取りのぞき、添字（currentIndex・recordedIdx）を数え直す。
+  ★「採点ずみの問題には戻らない」の判定は、**取りのぞく前の添字**でする（順番に意味がある）
+- 直したあと 28件すべて通過（前からの6つの再開シナリオも）
+
 ### 2026-09-22 ★親が「最優先」を決められるようにする → **案を出して止まっている（ユーザーの選択待ち）**
 案 = `kosukequiz-battle\案_親が最優先を決める_2026-09-22.md`（画面3案・外れ方3案・保存と CSV の扱い）
 - ★発見: **3段の並びは「よく間違える／未クリア」ON のときだけ**。ふだんはシャッフルか出題順どおり → ★は**どのモードでも先頭**に置く必要
